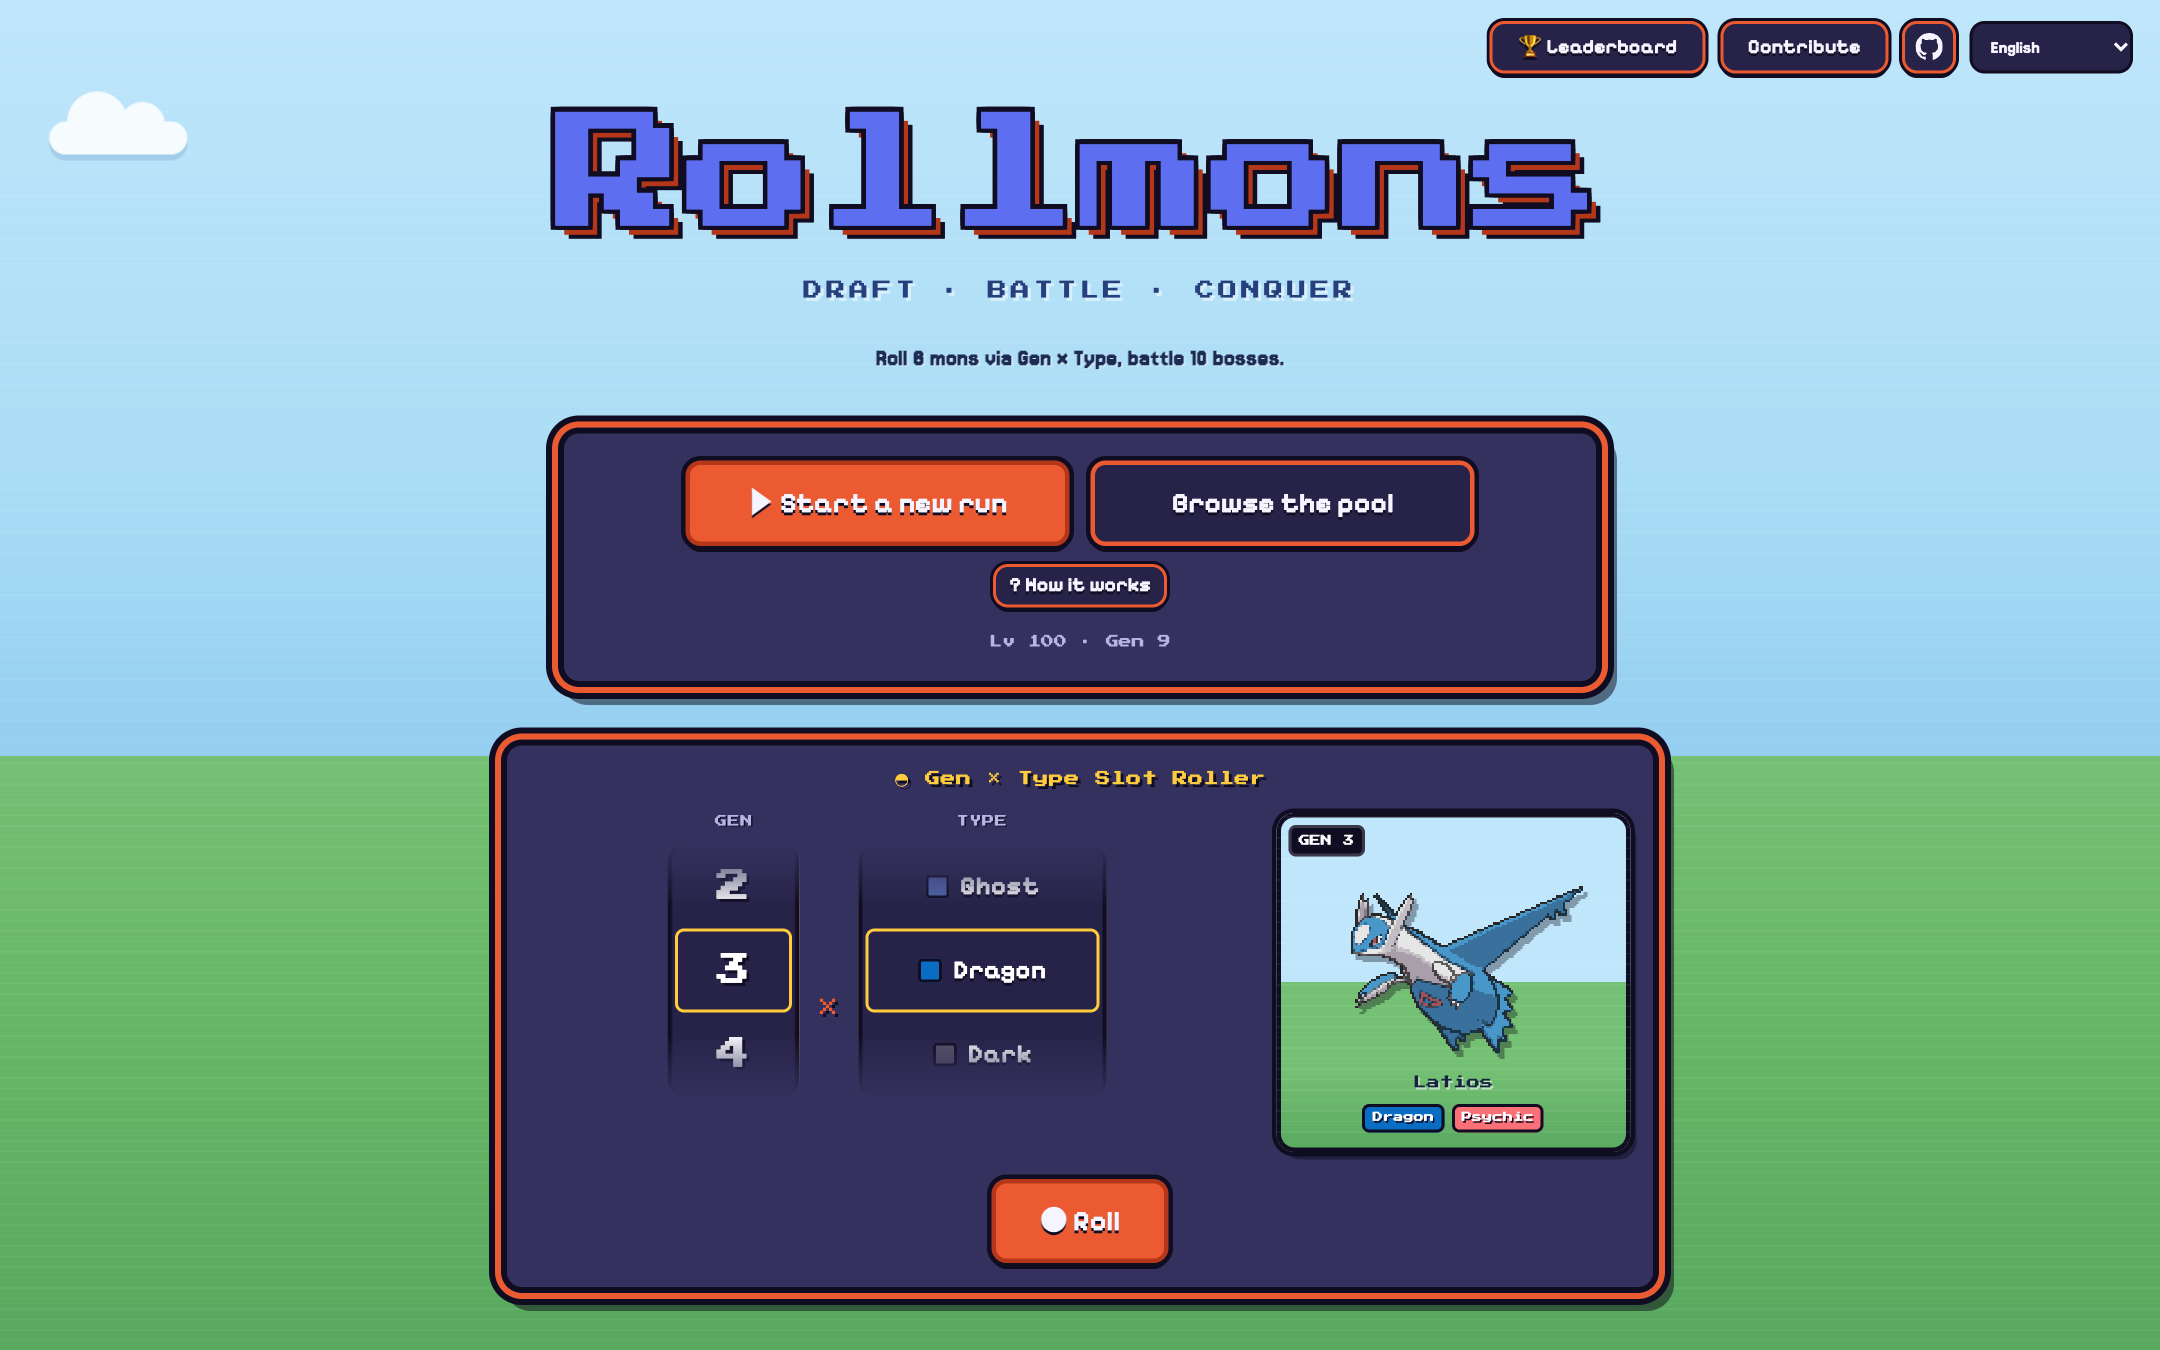
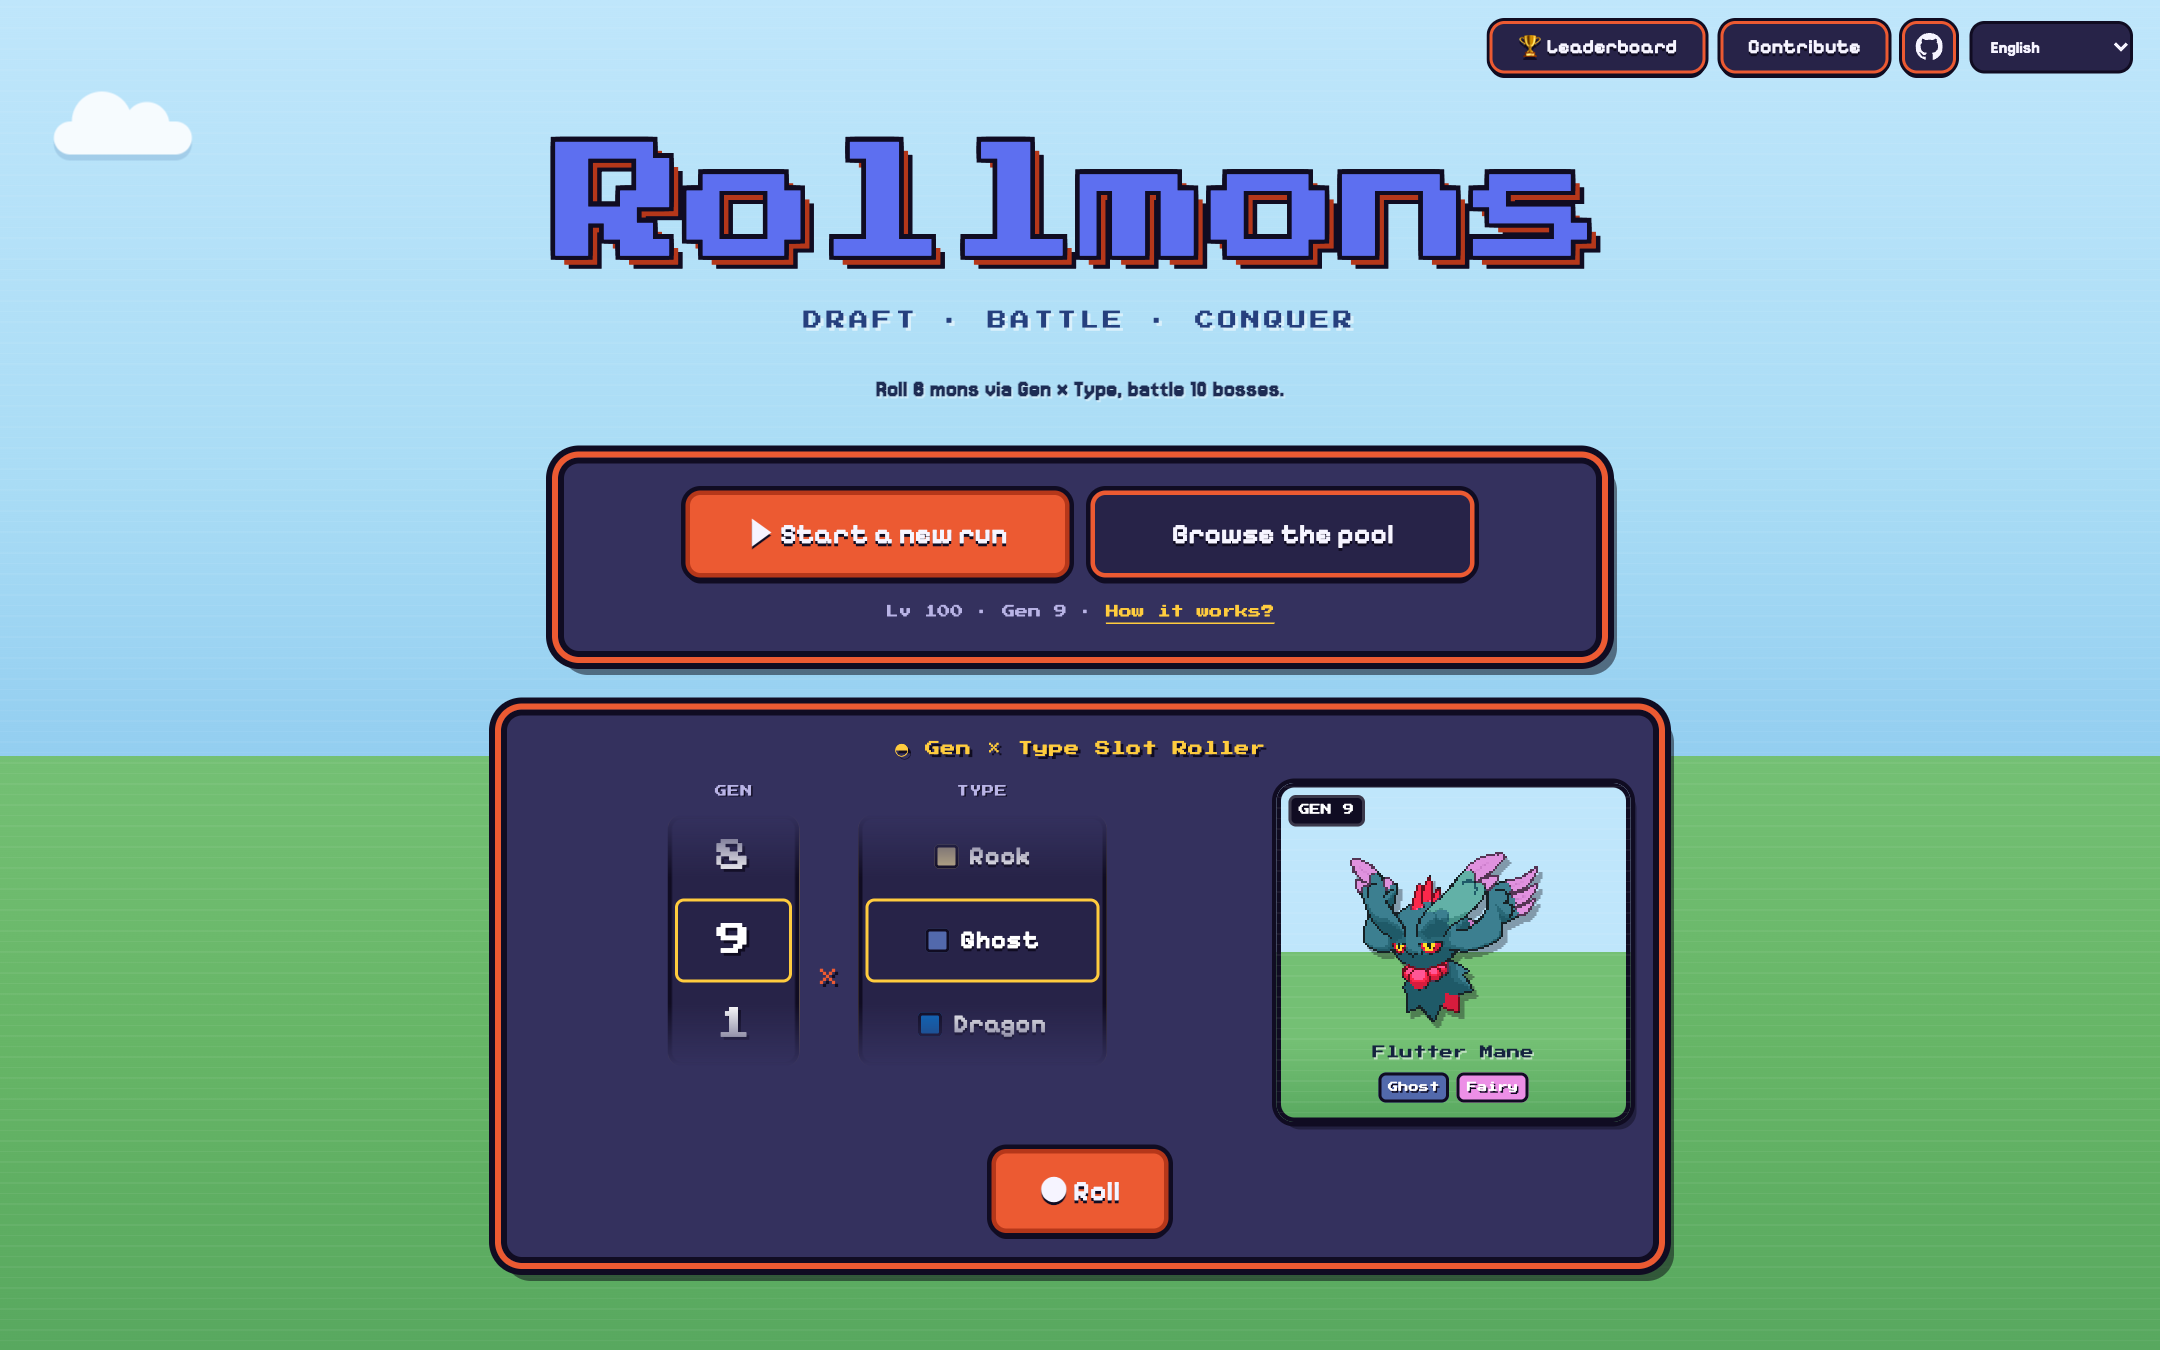
web: How it works as a link on the title foot line
A small button on its own row under the two big title buttons looked
stray; the rules link now rides the foot line (Lv 100 · Gen 9 · How it
works?) and appears once the game data is in. Title screenshot retaken.

Changed region(s): [[0.2171, 0.0622, 0.7755, 0.8711], [0.2171, 0.84, 0.7755, 0.9956]]

diff --git a/web/app/i18n.ts b/web/app/i18n.ts
@@ -65,7 +65,7 @@ const STRINGS: Record<Exclude<Lang, 'en'>, Record<string, string>> = {
     'Post as {name}': '以 {name} 发布', 'Sign in to post': '登录后发布成绩', 'Scores can only be posted on the hosted site.': '成绩只能在正式站点上发布。', 'Submitted.': '已提交。', 'Only fresh campaign runs can be submitted.': '只有全新的战役局可以提交。',
     'This run cannot be submitted.': '这一局无法提交。', 'Verifying your run…': '正在验证你的对局…',
     'Verified! You are #{rank} on the leaderboard.': '验证通过！你在排行榜上排名第 {rank}。', 'Verified! Your best is still {best} points (#{rank}).': '验证通过！你的最高分仍是 {best} 分（第 {rank} 名）。', 'Could not submit: {error}': '提交失败：{error}',
-    '? How it works': '? 玩法说明', 'How it works': '玩法说明', 'fixed': '固定', 'Band': '层段', 'Battles': '场数', 'Teams': '队伍数', 'Points per win': '每胜得分',
+    'How it works?': '玩法说明？', 'How it works': '玩法说明', 'fixed': '固定', 'Band': '层段', 'Battles': '场数', 'Teams': '队伍数', 'Points per win': '每胜得分',
     'Six rounds. Each round rolls a cell: a type and the generation its Pokémon debuted in. {n} candidates come from that cell; when it is short, visitors of the same type from the nearest generations fill the offer.': '共六轮。每轮摇出一个格子：一个属性加上宝可梦首次登场的世代。候选的 {n} 只来自该格子；格子不够时，由相邻世代的同属性宝可梦客串补位。',
     'Every slot rolls a rarity from the Showdown tier, so legendaries are rare but never banned:': '每个位置按 Showdown 分级摇出稀有度，因此传说宝可梦稀有但不会被禁用：',
     'Poké Ball {c}% · Great Ball {u}% · Ultra Ball {r}% · Master Ball {l}%': '精灵球 {c}% · 超级球 {u}% · 高级球 {r}% · 大师球 {l}%',
@@ -150,7 +150,7 @@ const STRINGS: Record<Exclude<Lang, 'en'>, Record<string, string>> = {
     'Post as {name}': '{name} として登録', 'Sign in to post': 'ログインして登録', 'Scores can only be posted on the hosted site.': 'スコアは公開サイトでのみ登録できます。', 'Submitted.': '登録済み。', 'Only fresh campaign runs can be submitted.': '登録できるのは新規のキャンペーンランだけです。',
     'This run cannot be submitted.': 'このランは登録できません。', 'Verifying your run…': 'ランを検証中…',
     'Verified! You are #{rank} on the leaderboard.': '検証完了！ランキング {rank} 位です。', 'Verified! Your best is still {best} points (#{rank}).': '検証完了！自己ベストは {best} 点のままです（{rank} 位）。', 'Could not submit: {error}': '登録できませんでした：{error}',
-    '? How it works': '? 遊び方', 'How it works': '遊び方', 'fixed': '固定', 'Band': '帯', 'Battles': '戦数', 'Teams': 'チーム数', 'Points per win': '勝利ごとの点',
+    'How it works?': '遊び方は？', 'How it works': '遊び方', 'fixed': '固定', 'Band': '帯', 'Battles': '戦数', 'Teams': 'チーム数', 'Points per win': '勝利ごとの点',
     'Six rounds. Each round rolls a cell: a type and the generation its Pokémon debuted in. {n} candidates come from that cell; when it is short, visitors of the same type from the nearest generations fill the offer.': '全6ラウンド。各ラウンドでマスを1つ回します：タイプと、そのポケモンが初登場した世代です。候補の {n} 匹はそのマスから出ます。足りないときは近い世代の同タイプのポケモンが客演で補います。',
     'Every slot rolls a rarity from the Showdown tier, so legendaries are rare but never banned:': '各枠は Showdown のティアに基づいてレア度を抽選します。伝説は出にくいですが禁止ではありません：',
     'Poké Ball {c}% · Great Ball {u}% · Ultra Ball {r}% · Master Ball {l}%': 'モンスターボール {c}% · スーパーボール {u}% · ハイパーボール {r}% · マスターボール {l}%',

diff --git a/web/app/main.ts b/web/app/main.ts
@@ -1318,7 +1318,7 @@ async function boot(): Promise<void> {
   void loadBoard();
   void loadAccount();
   $<HTMLInputElement>('low-power').checked = lowPower;
-  $('title-foot').textContent = t('Loading game data…');
+  $('title-foot-text').textContent = t('Loading game data…');
   try {
     const res = await fetch(new URL('./data/game-data.json', import.meta.url));
     if (!res.ok) throw new Error(`game data: HTTP ${res.status}`);
@@ -1330,10 +1330,11 @@ async function boot(): Promise<void> {
     renderPool();
     feedRoller();
     renderBosses(state.bossBook.list());
-    $('title-foot').textContent = t('Lv 100 · Gen 9'); // data-i18n keeps it translated after a language switch
+    $('title-foot-text').textContent = t('Lv 100 · Gen 9'); // data-i18n keeps it translated after a language switch
+    $('help-foot').classList.remove('hidden');
   } catch (e) {
     $('pool-summary').textContent = errorMessage(e);
-    $('title-foot').textContent = t('Could not load game data: {error}', {error: errorMessage(e)});
+    $('title-foot-text').textContent = t('Could not load game data: {error}', {error: errorMessage(e)});
   }
 }
 

diff --git a/web/app/index.html b/web/app/index.html
@@ -138,8 +138,8 @@ var f=document.fonts;(f&&f.load?Promise.all(['700 1em "Pixelify Sans"','1em "Pre
         <button class="btn btn-primary btn-lg" onclick="newRun()" data-i18n="▶ Start a new run">▶ Start a new run</button>
         <button class="btn btn-ghost btn-lg" onclick="go('pool')" data-i18n="Browse the pool">Browse the pool</button>
       </div>
-      <button class="btn btn-ghost btn-sm help-btn" id="help-btn" onclick="toggleHelp()" data-i18n="? How it works">? How it works</button>
-      <p class="title-foot" id="title-foot" data-i18n="Lv 100 · Gen 9">Lv 100 · Gen 9</p>
+      <!-- the rules link rides the foot line (a third button did not fit the row and a small one alone looked stray) -->
+      <p class="title-foot" id="title-foot"><span id="title-foot-text" data-i18n="Lv 100 · Gen 9">Lv 100 · Gen 9</span><span class="hidden" id="help-foot"> · <a href="#" class="help-link" id="help-btn" onclick="toggleHelp(); return false" data-i18n="How it works?">How it works?</a></span></p>
     </div>
   </div>
   <div class="roller" id="roller">

diff --git a/web/app/styles.css b/web/app/styles.css
@@ -268,8 +268,9 @@ button:disabled{cursor:not-allowed;opacity:.42}
   box-shadow:0 0 0 4px var(--edge), inset 0 0 0 4px var(--edge), 6px 8px 0 rgba(8,6,18,.5)}
 .title-actions{display:flex;gap:.9rem;justify-content:center;flex-wrap:wrap}
 .title-actions .btn{width:16rem;max-width:100%;min-height:3.6rem;display:inline-flex;align-items:center;justify-content:center;box-sizing:border-box}
-/* the rules button is tertiary: a small row of its own under the two big ones (the three at full size do not fit one row) */
-.title-panel .help-btn{margin-top:-.3rem}
+/* the rules link rides the foot line */
+.title-foot .help-link{color:var(--gold);text-decoration:underline;text-underline-offset:3px;text-decoration-thickness:1px}
+.title-foot .help-link:hover{color:#fff}
 .title-foot{min-height:1.7em}
 .title-foot{margin:0;font-family:var(--font-pixel);font-size:.54rem;color:var(--muted);line-height:1.7}
 /* .title-team removed — slot-machine Gen × Type animation will replace it */

diff --git a/session-handoff.md b/session-handoff.md
@@ -27,7 +27,7 @@ v1 could not be hosted for many players: every battle ran foul-play + poke-engin
 5. **Static hosting** (GitHub Pages or similar). Then playtest; deepen Middle band; per-band AI think time. **Done:** live on GitHub Pages 2026-10-18, moved to Vercel only (https://rollmon.vercel.app) on 2026-10-19.
 
 ## Done so far (most recent first)
-- **How it works, split caps, README (2026-10-23).** `? How it works` on the title screen (small button under the two big ones; also in the ☰ menu) opens a drawer with the rules in four sections, numbers read from the config at render time (`renderHelp`; `docs/ROADMAP.md` §8); zh/ja strings; `chrome-app.mjs` checks it. `POST /api/feedback` now has two daily caps per network: 50 for free text and 50 for contributions (sets + bosses together; `capBucket` in `web/api/feedback.ts`, the store counts rows by kind), was one cap of 10. README rewritten for v2 as it is, with a How-a-run-works section and six current screenshots (`rollmons/screenshot/`, 1440×900 at 1.5×, taken by a scratch Playwright script from a headless run; the June ones were v1's UI); GitHub description + ten topics set with `gh repo edit`. Replay i18n explored and **postponed by the author** (finding and plan in §9: the hosted client ships zh-cn/ja battle text, the embed only has to set the language pref).
+- **How it works, split caps, README (2026-10-23).** `How it works?` link on the title panel's foot line (a small button under the two big ones looked stray to the author; also in the ☰ menu) opens a drawer with the rules in four sections, numbers read from the config at render time (`renderHelp`; `docs/ROADMAP.md` §8); zh/ja strings; `chrome-app.mjs` checks it. `POST /api/feedback` now has two daily caps per network: 50 for free text and 50 for contributions (sets + bosses together; `capBucket` in `web/api/feedback.ts`, the store counts rows by kind), was one cap of 10. README rewritten for v2 as it is, with a How-a-run-works section and six current screenshots (`rollmons/screenshot/`, 1440×900 at 1.5×, taken by a scratch Playwright script from a headless run; the June ones were v1's UI); GitHub description + ten topics set with `gh repo edit`. Replay i18n explored and **postponed by the author** (finding and plan in §9: the hosted client ships zh-cn/ja battle text, the embed only has to set the language pref).
 - **Start over on the draft screen (2026-10-23).** A ghost button beside Skip cell (`startOver`; `askConfirm` is an in-page `<dialog>` in the sign-in box's style, the browser's confirm() was rejected by the author) plays an exit animation (drafted party slots shrink away, then the cell header, the tiles and the detail panel drop out; the new offer then uses the usual enter animation; skipped under reduced motion) and calls `newRun` with a fresh seed (a `?seed=` URL repeats it). Decided with the author: a reload already restarted the run, so no friction beyond the confirm; a future daily-seed mode should not offer it. `chrome-app.mjs` checks decline-keeps / accept-restarts.
 - **CJK size for the pixel font (2026-10-23).** `--font-pixel` is Press Start 2P, then a `'Pixel CJK'` `@font-face` that is the system CJK font (PingFang / Hiragino / Noto CJK / YaHei / Yu Gothic, listed by PostScript and family name because Chrome and WebKit match `local()` differently) with `size-adjust:150%`, since Press Start 2P fills its em box and the .5–.6rem sizes set for it rendered Chinese and Japanese labels tiny. Measured: the step rail's glyphs are now the same height in all three languages in Chrome and WebKit.
 - **Leaderboard rows with sprites, cached account name (2026-10-23).** Board rows show the team as pixel sprites (proper names on hover; the ids used to print as "Hoopaunbound"), the signed-in player's row is highlighted. The last account name is kept in `localStorage` (`rollmons-account`) and painted at boot before `/api/auth/me` answers, so the strip no longer flips from "Sign in" to the name on load (the flash the author saw on desktop; a fixed-width chip was tried and dropped, it left a gap before the name). The step rail never wraps: below 1440 px the tools strip takes a right-aligned second topbar row (the English labels need about 1400 px on one row). The board loads 10 rows and offers "Show top 50" then 100 (`boardLimit`, API cap 100); names are 18 characters at most and ellipsised in the strip and the board. The leaderboard still holds the 2026-10-19 probe row (`probe 8975`, 0 points): delete it from the Neon console (SQL above).

diff --git a/docs/ROADMAP.md b/docs/ROADMAP.md
@@ -407,8 +407,8 @@ replay was added 2026-10-22, since the fixed button is far from where
 the player is after watching the last battle), results and the leaderboard drawer, then the topbar strip (phone
 overflow). The title page stays as it is.
 
-**How it works (2026-10-23).** A small `? How it works` button under the
-title actions (and a ☰ menu entry) opens a drawer with the rules in four
+**How it works (2026-10-23).** A `How it works?` link on the title panel's
+foot line (`Lv 100 · Gen 9 · How it works?`; also a ☰ menu entry) opens a drawer with the rules in four
 sections: draft (cell lock, candidates, visitors, slot odds, skips, start
 over), loadout (contributed + Smogon sets, Mega as a set), gauntlet (a
 table of the campaign bands with battles, pool size and points per win,
@@ -416,9 +416,10 @@ then the AI and its budgets), score (speed bonus, handicap, best run per
 player). Every number is read at render time from `DEFAULT_DRAFT_CONFIG`,
 `CAMPAIGN_STRUCTURE`, the pool, `score.ts` and `DEFAULT_BUDGET_MS`, so it
 cannot go stale; `renderHelp` in `main.ts`, rerendered on a language
-change. The three full-size title buttons did not fit one row (natural
-widths 239 + 213 + 197 px against a 645 px panel), so the help button is a
-small tertiary row rather than a third big button.
+change. Placement: a third full-size title button did not fit the row
+(natural widths 239 + 213 + 197 px against a 645 px panel) and a small
+button on its own row looked stray to the author, so it is a text link on
+the foot line (chosen 2026-10-23 over a `?` icon in the tools strip).
 
 ## 9. i18n
 

diff --git a/README.md b/README.md
@@ -20,7 +20,7 @@ A single-player Pokémon draft autobattler that runs entirely in the browser. Ro
 3. **Gauntlet** — ten hand-built boss teams climbing from a tutorial band to a final wall; the middle bands are drawn at random per run. Both sides are played by the same search AI with full knowledge of both teams, time-boxed per move, so a slow device plays weaker rather than slower.
 4. **Results** — replays, damage breakdown and MVP, and a score (band points × speed bonus × tier handicap). Signed-in players post it; the server replays the whole run in the simulator before accepting it and keeps each player's best.
 
-The in-game **? How it works** button tells the same story with the live numbers. Design notes: `docs/PRODUCT.md`, `docs/DIFFICULTY.md`, `docs/BATTLE_AI.md` (what the AI costs the player's machine and how it compares with v1); plan and status: `docs/ROADMAP.md`, `session-handoff.md`.
+The in-game **How it works?** link tells the same story with the live numbers. Design notes: `docs/PRODUCT.md`, `docs/DIFFICULTY.md`, `docs/BATTLE_AI.md` (what the AI costs the player's machine and how it compares with v1); plan and status: `docs/ROADMAP.md`, `session-handoff.md`.
 
 ## Status
 - Live at https://rollmon.vercel.app (Vercel; every push to `main` deploys). The game logic (draft, loadout, campaign, score) is TypeScript under `web/`; the Python layer under `rollmons/` remains the reference implementation and test oracle (`make test`).
